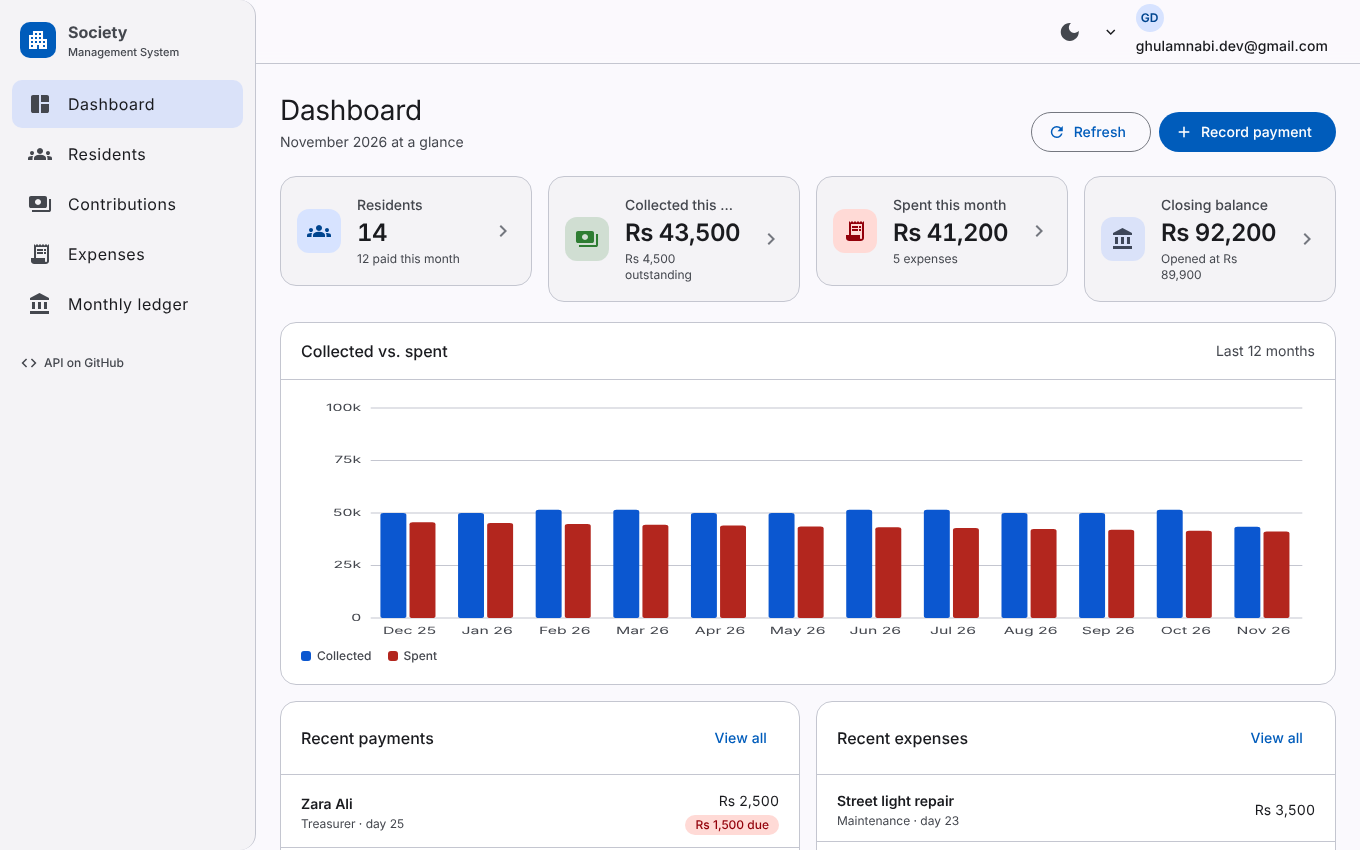
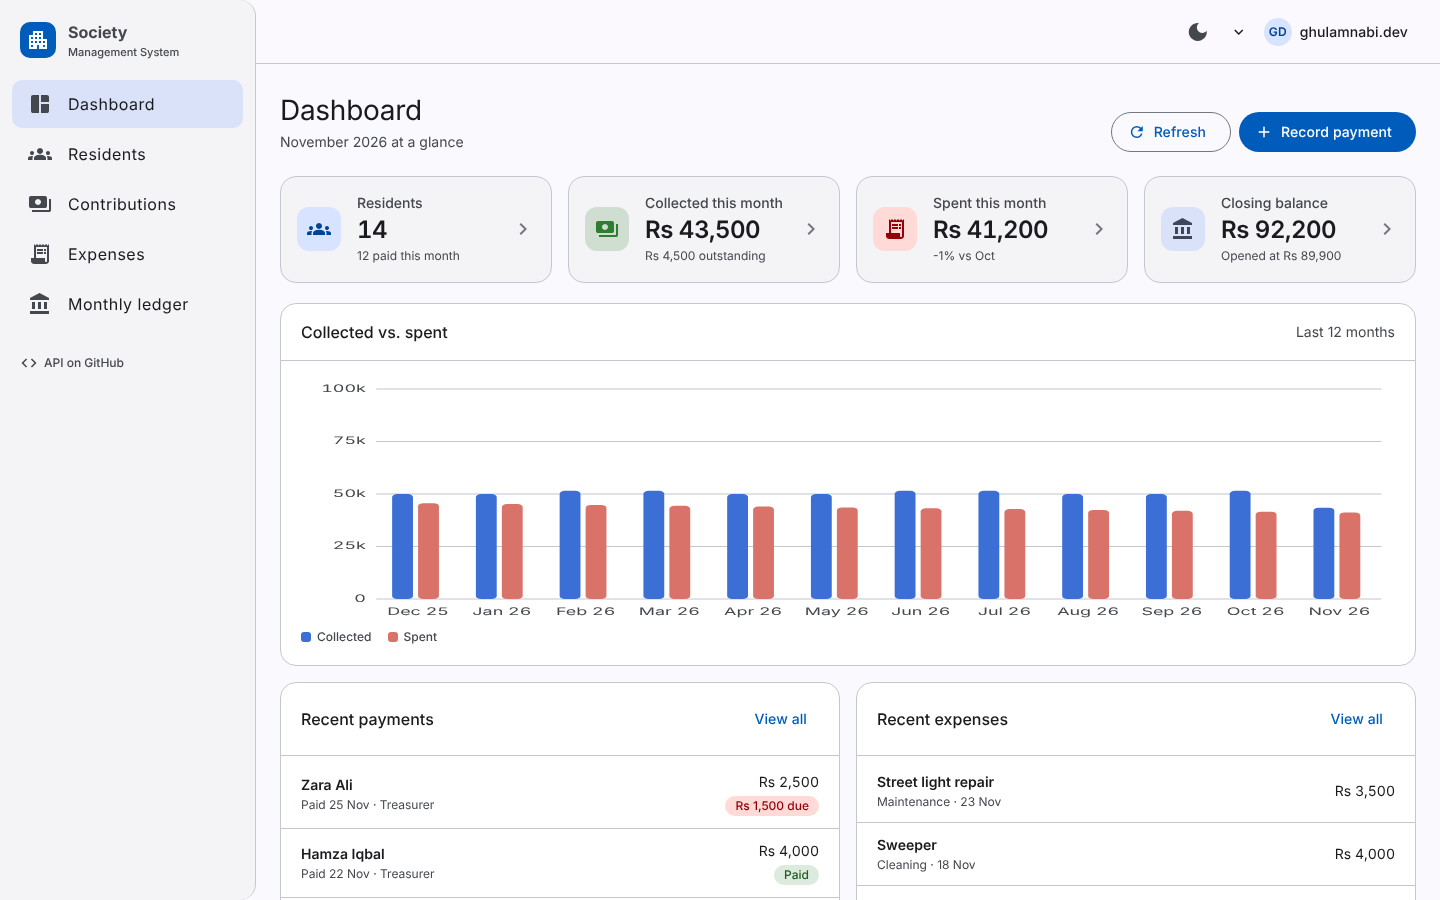
UI polish pass and demo seed script
- Fix collapsed whitespace in toolbar totals and table cells (Angular strips
  inter-element whitespace); replace with a stat strip and stacked cells
- Right-align numeric column headers to match their cells
- Softer, token-based chart palette for light/dark; Inter on axis labels
- Lighter table dividers, uppercase column headers, hover-revealed row actions
- KPI cards show month-over-month deltas; toolbar shows the account's local part
- scripts/seed.mjs + 'npm run seed': 12 months of demo data via the API
- Refresh README screenshots

Claude-Session: https://claude.ai/code/session_01JqkC5cwcFMZ9kEKPSYY6hM

diff --git a/src/styles.scss b/src/styles.scss
@@ -5,7 +5,10 @@
 // ---------------------------------------------------------------------------
 html {
   color-scheme: light;
-  &.dark { color-scheme: dark; }
+  --chart-1: #3b6fd6;  // collected
+  --chart-2: #d9736a;  // spent
+  --chart-3: #3f9d6f;  // balance
+  &.dark { color-scheme: dark; --chart-1: #8ab4f8; --chart-2: #f28b82; --chart-3: #81c995; }
 
   @include mat.theme((
     color: (
@@ -66,21 +69,43 @@ html.dark .card { background: var(--mat-sys-surface-container-low); }
 // Data tables
 .data-table {
   width: 100%;
-  th.mat-mdc-header-cell { font: var(--mat-sys-label-large); color: var(--mat-sys-on-surface-variant); white-space: nowrap; }
+  --mat-table-row-item-outline-color: color-mix(in srgb, var(--mat-sys-outline-variant) 70%, transparent);
+  --mat-table-header-container-height: 48px;
+  --mat-table-row-item-container-height: 52px;
+  th.mat-mdc-header-cell {
+    font: var(--mat-sys-label-medium); font-weight: 600; letter-spacing: .02em; text-transform: uppercase;
+    color: var(--mat-sys-on-surface-variant); white-space: nowrap;
+    background: var(--mat-sys-surface-container-low);
+  }
   td.mat-mdc-cell { font-variant-numeric: tabular-nums; }
   .num { text-align: right; }
+  th.num .mat-sort-header-container { justify-content: flex-end; }
+  th.num .mat-sort-header-content { text-align: right; }
   .actions-col { width: 96px; text-align: right; white-space: nowrap; }
-  tr.mat-mdc-row:hover { background: var(--mat-sys-surface-container); }
+  td.actions-col .mat-mdc-icon-button { opacity: .55; transition: opacity .15s; }
+  tr.mat-mdc-row:hover { background: var(--mat-sys-surface-container); td.actions-col .mat-mdc-icon-button { opacity: 1; } }
+  .cell-primary { font-weight: 600; }
+  .cell-secondary { color: var(--mat-sys-on-surface-variant); font: var(--mat-sys-body-small); }
+  .cell-stack { display: grid; gap: 1px; line-height: 1.25; }
 }
 .table-scroll { overflow-x: auto; }
+
+// Inline figures in toolbars ("Collected  Rs 551,000")
+.stat-strip { display: flex; gap: 20px; align-items: center; flex-wrap: wrap; }
+.stat-strip .stat { display: grid; gap: 0; text-align: right; }
+.stat-strip .k { font: var(--mat-sys-label-small); text-transform: uppercase; letter-spacing: .04em; color: var(--mat-sys-on-surface-variant); }
+.stat-strip .v { font: var(--mat-sys-title-medium); font-weight: 600; font-variant-numeric: tabular-nums; white-space: nowrap; }
+.stat-strip .v.due { color: var(--mat-sys-error); }
+.stat-strip .v.ok { color: #2e7d32; }
+html.dark .stat-strip .v.ok { color: #81c784; }
 
 .muted { color: var(--mat-sys-on-surface-variant); }
 .mono { font-variant-numeric: tabular-nums; }
 
 // Status chips
 .chip {
-  display: inline-flex; align-items: center; gap: 4px; padding: 2px 10px; border-radius: 999px;
-  font: var(--mat-sys-label-medium);
+  display: inline-flex; align-items: center; gap: 4px; padding: 2px 10px; border-radius: 999px; white-space: nowrap;
+  font: var(--mat-sys-label-medium); background: var(--mat-sys-surface-container-high); color: var(--mat-sys-on-surface-variant);
   &.ok { background: color-mix(in srgb, #2e7d32 16%, transparent); color: #1b5e20; }
   &.due { background: var(--mat-sys-error-container); color: var(--mat-sys-on-error-container); }
 }

diff --git a/src/app/features/dashboard/dashboard.component.ts b/src/app/features/dashboard/dashboard.component.ts
@@ -16,10 +16,11 @@ import { EmptyStateComponent } from '../../shared/empty-state.component';
 import { PageHeaderComponent } from '../../shared/page-header.component';
 import { PkrPipe } from '../../shared/pkr.pipe';
 import { StatCardComponent } from '../../shared/stat-card.component';
+import { MonthNamePipe } from '../../shared/month-name.pipe';
 
 @Component({
   selector: 'app-dashboard',
-  imports: [RouterLink, MatIconModule, MatButtonModule, MatProgressBarModule, PageHeaderComponent, StatCardComponent, BarChartComponent, EmptyStateComponent, PkrPipe],
+  imports: [RouterLink, MatIconModule, MatButtonModule, MatProgressBarModule, PageHeaderComponent, StatCardComponent, BarChartComponent, EmptyStateComponent, PkrPipe, MonthNamePipe],
   templateUrl: './dashboard.component.html',
   styleUrl: './dashboard.component.scss',
 })
@@ -48,6 +49,14 @@ export class DashboardComponent {
   readonly spent = computed(() => this.expenses().reduce((s, e) => s + e.amount, 0));
   readonly current = computed(() => this.summaries().find((s) => s.month === this.month && s.year === this.year) ?? null);
   readonly paidCount = computed(() => new Set(this.funds().map((f) => f.residentId)).size);
+  readonly previous = computed(() => {
+    const m = this.month === 1 ? 12 : this.month - 1;
+    const y = this.month === 1 ? this.year - 1 : this.year;
+    return this.summaries().find((s) => s.month === m && s.year === y) ?? null;
+  });
+  /** "+8% vs Oct" style hint, or null when there is nothing to compare against. */
+  readonly collectedDelta = computed(() => delta(this.collected(), this.previous()?.totalFund, this.previous()?.month));
+  readonly spentDelta = computed(() => delta(this.spent(), this.previous()?.expense, this.previous()?.month));
 
   /** Last 12 summaries, oldest first, for the chart. */
   readonly last12 = computed(() =>
@@ -55,8 +64,8 @@ export class DashboardComponent {
   );
   readonly chartLabels = computed(() => this.last12().map((s) => `${monthName(s.month, true)} ${String(s.year).slice(2)}`));
   readonly chartSeries = computed<BarSeries[]>(() => [
-    { name: 'Collected', color: '#0b57d0', values: this.last12().map((s) => s.totalFund) },
-    { name: 'Spent', color: '#b3261e', values: this.last12().map((s) => s.expense) },
+    { name: 'Collected', color: 'var(--chart-1)', values: this.last12().map((s) => s.totalFund) },
+    { name: 'Spent', color: 'var(--chart-2)', values: this.last12().map((s) => s.expense) },
   ]);
 
   readonly recentExpenses = computed(() =>
@@ -101,4 +110,11 @@ export class DashboardComponent {
       },
     });
   }
+}
+
+function delta(current: number, previous: number | undefined, prevMonth: number | undefined): string | null {
+  if (!previous || prevMonth == null) return null;
+  const pct = Math.round(((current - previous) / previous) * 100);
+  const sign = pct > 0 ? '+' : '';
+  return `${sign}${pct}% vs ${monthName(prevMonth, true)}`;
 }

diff --git a/src/app/shared/bar-chart.component.ts b/src/app/shared/bar-chart.component.ts
@@ -22,7 +22,7 @@ export interface BarSeries {
         }
         @for (g of groups(); track g.label) {
           @for (b of g.bars; track b.name) {
-            <rect [attr.x]="b.x" [attr.y]="b.y" [attr.width]="b.w" [attr.height]="b.h" [attr.fill]="b.color" rx="2">
+            <rect [attr.x]="b.x" [attr.y]="b.y" [attr.width]="b.w" [attr.height]="b.h" [attr.fill]="b.color" rx="3">
               <title>{{ g.label }} · {{ b.name }}: {{ b.value | number: '1.0-0' }}</title>
             </rect>
           }
@@ -41,7 +41,7 @@ export interface BarSeries {
     .chart { margin: 0; }
     svg { width: 100%; height: 240px; display: block; overflow: visible; }
     .grid { stroke: var(--mat-sys-outline-variant); stroke-width: 1; }
-    .tick { font-size: 10px; fill: var(--mat-sys-on-surface-variant); font-family: inherit; }
+    .tick { font-size: 10.5px; fill: var(--mat-sys-on-surface-variant); font-family: Inter, system-ui, sans-serif; font-variant-numeric: tabular-nums; }
     rect { transition: opacity .15s; }
     rect:hover { opacity: .8; }
     .legend { display: flex; gap: 16px; margin-top: 8px; font: var(--mat-sys-label-medium); color: var(--mat-sys-on-surface-variant);
@@ -81,7 +81,7 @@ export class BarChartComponent {
     const series = this.series();
     const innerW = this.W - this.padL - this.padR;
     const groupW = innerW / Math.max(labels.length, 1);
-    const gap = groupW * 0.25;
+    const gap = groupW * 0.38;
     const barW = (groupW - gap) / Math.max(series.length, 1);
     return labels.map((label, i) => {
       const x0 = this.padL + i * groupW + gap / 2;
@@ -91,7 +91,7 @@ export class BarChartComponent {
         bars: series.map((s, j) => {
           const value = s.values[i] ?? 0;
           const y = this.yFor(value);
-          return { name: s.name, color: s.color, value, x: x0 + j * barW, w: Math.max(barW - 2, 1), y, h: this.H - this.padB - y };
+          return { name: s.name, color: s.color, value, x: x0 + j * barW, w: Math.max(barW - 3, 1), y, h: Math.max(this.H - this.padB - y, 0) };
         }),
       };
     });

diff --git a/src/app/features/dashboard/dashboard.component.html b/src/app/features/dashboard/dashboard.component.html
@@ -10,9 +10,9 @@
     <app-stat-card icon="groups" label="Residents" [value]="'' + residents().length"
       [hint]="paidCount() + ' paid this month'" link="../residents" tone="primary" />
     <app-stat-card icon="payments" label="Collected this month" [value]="collected() | pkr"
-      [hint]="outstanding() ? (outstanding() | pkr) + ' outstanding' : 'Nothing outstanding'" link="../funds" tone="positive" />
+      [hint]="outstanding() ? (outstanding() | pkr) + ' outstanding' : (collectedDelta() ?? 'Nothing outstanding')" link="../funds" tone="positive" />
     <app-stat-card icon="receipt_long" label="Spent this month" [value]="spent() | pkr"
-      [hint]="expenses().length + ' expense' + (expenses().length === 1 ? '' : 's')" link="../expenses" tone="negative" />
+      [hint]="spentDelta() ?? (expenses().length + ' expense' + (expenses().length === 1 ? '' : 's'))" link="../expenses" tone="negative" />
     <app-stat-card icon="account_balance" label="Closing balance" [value]="(current()?.closingBalance ?? null) | pkr"
       [hint]="current() ? 'Opened at ' + ((current()!.openningBalance) | pkr) : 'No ledger row for this month yet'" link="../summary" tone="neutral" />
   </section>
@@ -43,7 +43,7 @@
             <li>
               <div>
                 <strong>{{ f.residentName }}</strong>
-                <span class="muted">{{ f.paidTo }} · day {{ f.datePaid }}</span>
+                <span class="muted">Paid {{ f.datePaid }} {{ f.month | monthName: true }} · {{ f.paidTo }}</span>
               </div>
               <div class="amount">
                 <span class="mono">{{ f.paidAmount | pkr }}</span>
@@ -68,7 +68,7 @@
             <li>
               <div>
                 <strong>{{ e.description }}</strong>
-                <span class="muted">{{ e.categoryName }} · day {{ e.expenseDate }}</span>
+                <span class="muted">{{ e.categoryName }} · {{ e.expenseDate }} {{ e.month | monthName: true }}</span>
               </div>
               <span class="mono">{{ e.amount | pkr }}</span>
             </li>

diff --git a/src/app/features/funds/funds.component.html b/src/app/features/funds/funds.component.html
@@ -25,9 +25,9 @@
         </mat-select>
       </mat-form-field>
       <span class="spacer"></span>
-      <div class="totals">
-        <span class="muted">Collected</span> <strong class="mono">{{ totalPaid() | pkr }}</strong>
-        @if (totalDue()) { <span class="chip due">{{ totalDue() | pkr }} outstanding</span> }
+      <div class="stat-strip">
+        <div class="stat"><span class="k">Collected</span><span class="v ok">{{ totalPaid() | pkr }}</span></div>
+        <div class="stat"><span class="k">Outstanding</span><span class="v" [class.due]="totalDue() > 0">{{ totalDue() | pkr }}</span></div>
       </div>
     </div>
     @if (loading()) { <mat-progress-bar mode="indeterminate" /> }
@@ -41,11 +41,11 @@
         <table mat-table [dataSource]="data" matSort matSortActive="period" matSortDirection="desc" class="data-table">
           <ng-container matColumnDef="residentName">
             <th mat-header-cell *matHeaderCellDef mat-sort-header>Resident</th>
-            <td mat-cell *matCellDef="let r"><strong>{{ r.residentName }}</strong> <span class="muted">· H-{{ r.houseNumber }}</span></td>
+            <td mat-cell *matCellDef="let r"><div class="cell-stack"><span class="cell-primary">{{ r.residentName }}</span><span class="cell-secondary">House {{ r.houseNumber }}</span></div></td>
           </ng-container>
           <ng-container matColumnDef="period">
             <th mat-header-cell *matHeaderCellDef mat-sort-header>Period</th>
-            <td mat-cell *matCellDef="let r">{{ r.month | monthName: true }} {{ r.year }} <span class="muted">· day {{ r.datePaid }}</span></td>
+            <td mat-cell *matCellDef="let r"><div class="cell-stack"><span>{{ r.month | monthName }} {{ r.year }}</span><span class="cell-secondary">Paid {{ r.datePaid }} {{ r.month | monthName: true }}</span></div></td>
           </ng-container>
           <ng-container matColumnDef="paidTo">
             <th mat-header-cell *matHeaderCellDef>Paid to</th>

diff --git a/src/app/features/expenses/expenses.component.html b/src/app/features/expenses/expenses.component.html
@@ -26,7 +26,10 @@
         </mat-select>
       </mat-form-field>
       <span class="spacer"></span>
-      <div><span class="muted">Total</span> <strong class="mono">{{ total() | pkr }}</strong></div>
+      <div class="stat-strip">
+        <div class="stat"><span class="k">Total spent</span><span class="v">{{ total() | pkr }}</span></div>
+        <div class="stat"><span class="k">Entries</span><span class="v">{{ visible().length }}</span></div>
+      </div>
     </div>
     @if (loading()) { <mat-progress-bar mode="indeterminate" /> }
 
@@ -39,7 +42,7 @@
         <table mat-table [dataSource]="data" matSort matSortActive="period" matSortDirection="desc" class="data-table">
           <ng-container matColumnDef="description">
             <th mat-header-cell *matHeaderCellDef mat-sort-header>Description</th>
-            <td mat-cell *matCellDef="let r"><strong>{{ r.description }}</strong></td>
+            <td mat-cell *matCellDef="let r"><span class="cell-primary">{{ r.description }}</span></td>
           </ng-container>
           <ng-container matColumnDef="categoryName">
             <th mat-header-cell *matHeaderCellDef mat-sort-header>Category</th>
@@ -47,7 +50,7 @@
           </ng-container>
           <ng-container matColumnDef="period">
             <th mat-header-cell *matHeaderCellDef mat-sort-header>Date</th>
-            <td mat-cell *matCellDef="let r">{{ r.expenseDate }} {{ r.month | monthName: true }} {{ r.year }}</td>
+            <td mat-cell *matCellDef="let r">{{ r.expenseDate }}&nbsp;{{ r.month | monthName: true }}&nbsp;{{ r.year }}</td>
           </ng-container>
           <ng-container matColumnDef="amount">
             <th mat-header-cell *matHeaderCellDef mat-sort-header class="num">Amount</th>

diff --git a/src/app/features/summary/summary.component.ts b/src/app/features/summary/summary.component.ts
@@ -37,9 +37,9 @@ export class SummaryComponent {
   readonly last12 = computed(() => this.sorted().slice(-12));
   readonly labels = computed(() => this.last12().map((s) => `${monthName(s.month, true)} ${String(s.year).slice(2)}`));
   readonly series = computed<BarSeries[]>(() => [
-    { name: 'Collected', color: '#0b57d0', values: this.last12().map((s) => s.totalFund) },
-    { name: 'Spent', color: '#b3261e', values: this.last12().map((s) => s.expense) },
-    { name: 'Closing balance', color: '#2e7d32', values: this.last12().map((s) => Math.max(s.closingBalance, 0)) },
+    { name: 'Collected', color: 'var(--chart-1)', values: this.last12().map((s) => s.totalFund) },
+    { name: 'Spent', color: 'var(--chart-2)', values: this.last12().map((s) => s.expense) },
+    { name: 'Closing balance', color: 'var(--chart-3)', values: this.last12().map((s) => Math.max(s.closingBalance, 0)) },
   ]);
 
   @ViewChild(MatSort) set sort(s: MatSort) { this.data.sort = s; }

diff --git a/src/app/features/summary/summary.component.html b/src/app/features/summary/summary.component.html
@@ -21,7 +21,7 @@
         <table mat-table [dataSource]="data" matSort matSortActive="period" matSortDirection="desc" class="data-table">
           <ng-container matColumnDef="period">
             <th mat-header-cell *matHeaderCellDef mat-sort-header>Month</th>
-            <td mat-cell *matCellDef="let s"><strong>{{ s.month | monthName }} {{ s.year }}</strong></td>
+            <td mat-cell *matCellDef="let s"><span class="cell-primary">{{ s.month | monthName }}&nbsp;{{ s.year }}</span></td>
           </ng-container>
           <ng-container matColumnDef="openningBalance">
             <th mat-header-cell *matHeaderCellDef mat-sort-header class="num">Opening</th>

diff --git a/src/app/features/residents/residents.component.html b/src/app/features/residents/residents.component.html
@@ -22,7 +22,7 @@
         <table mat-table [dataSource]="data" matSort class="data-table">
           <ng-container matColumnDef="ownerName">
             <th mat-header-cell *matHeaderCellDef mat-sort-header>Owner</th>
-            <td mat-cell *matCellDef="let r"><strong>{{ r.ownerName }}</strong></td>
+            <td mat-cell *matCellDef="let r"><span class="cell-primary">{{ r.ownerName }}</span></td>
           </ng-container>
           <ng-container matColumnDef="houseNumber">
             <th mat-header-cell *matHeaderCellDef mat-sort-header>House</th>

diff --git a/src/app/layout/shell.component.scss b/src/app/layout/shell.component.scss
@@ -42,7 +42,7 @@
   .spacer { flex: 1; }
 }
 
-.user-btn { display: inline-flex; align-items: center; gap: 8px; padding-inline: 8px 4px; }
+.user-btn { display: inline-flex; align-items: center; gap: 8px; padding-inline: 8px 4px; white-space: nowrap; ::ng-deep .mdc-button__label { display: inline-flex; align-items: center; gap: 8px; } }
 .avatar {
   display: grid; place-items: center; width: 28px; height: 28px; border-radius: 50%;
   background: var(--mat-sys-primary-container); color: var(--mat-sys-on-primary-container);

diff --git a/src/app/core/auth/auth.service.ts b/src/app/core/auth/auth.service.ts
@@ -23,7 +23,9 @@ export class AuthService {
   readonly userName = computed(() => {
     const p = this.tokens.payload();
     const name = (p?.[NAME_CLAIM] ?? p?.['name'] ?? p?.['unique_name']) as string | undefined;
-    return name ?? 'Account';
+    if (!name) return 'Account';
+    // Show "ghulamnabi.dev" rather than the full address in the toolbar.
+    return name.includes('@') ? name.split('@')[0] : name;
   });
 
   login(body: LoginRequest): Observable<AuthResponse> {

diff --git a/README.md b/README.md
@@ -63,6 +63,10 @@ Point the client at a different API by editing `src/environments/environment.dev
 Start the API with Docker from the server repo: `docker compose up --build` (see its README), or run it with the .NET SDK.
 
 ```bash
+npm run seed         # demo data: 13 residents, 12 months of payments/expenses, ledger rows; creates demo@sms.local
+```
+
+```bash
 npm test             # Karma + Jasmine, headless Chrome
 npm run build:prod   # outputs dist/sms/browser — deploy as static files (Vercel, Netlify, GitHub Pages, nginx)
 ```
